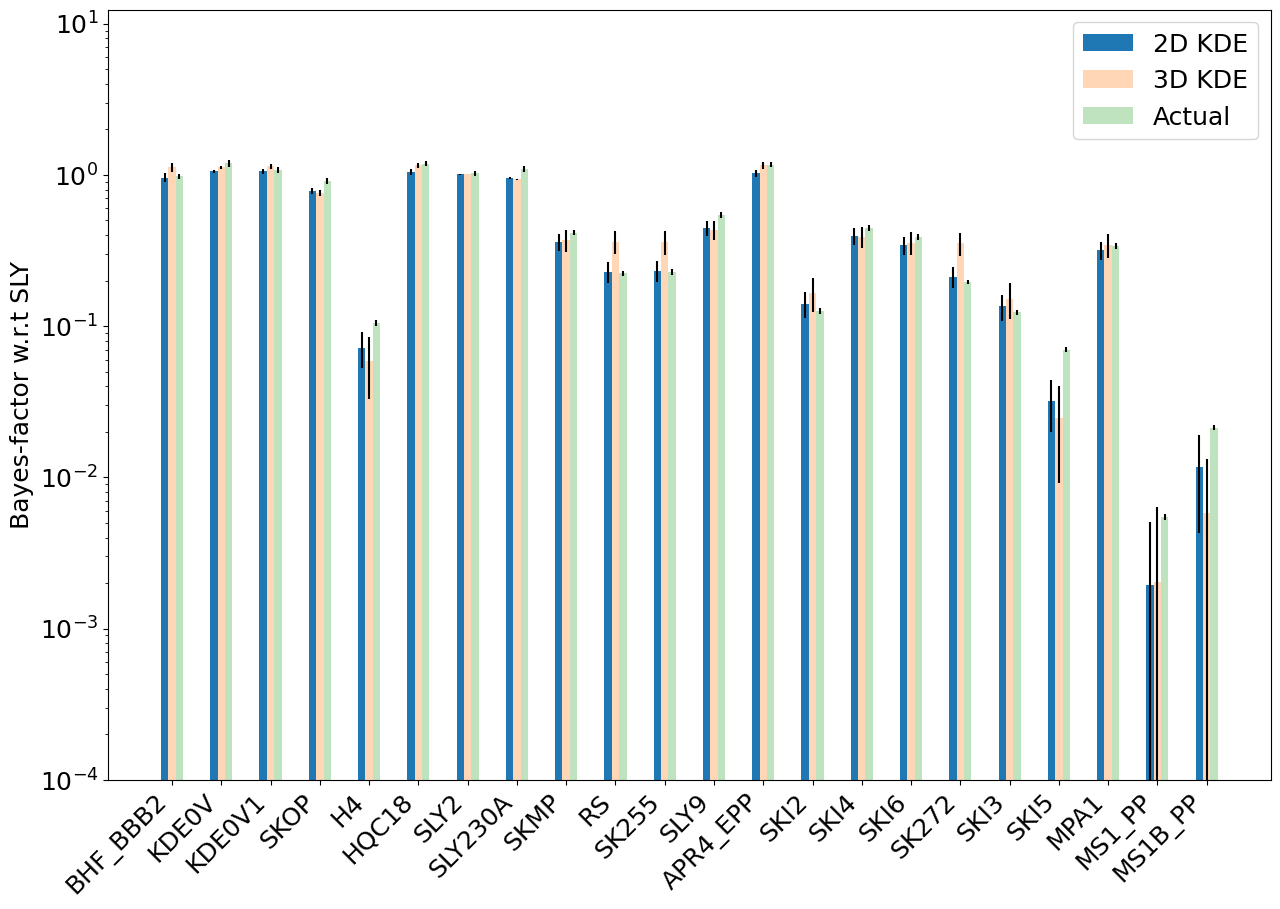
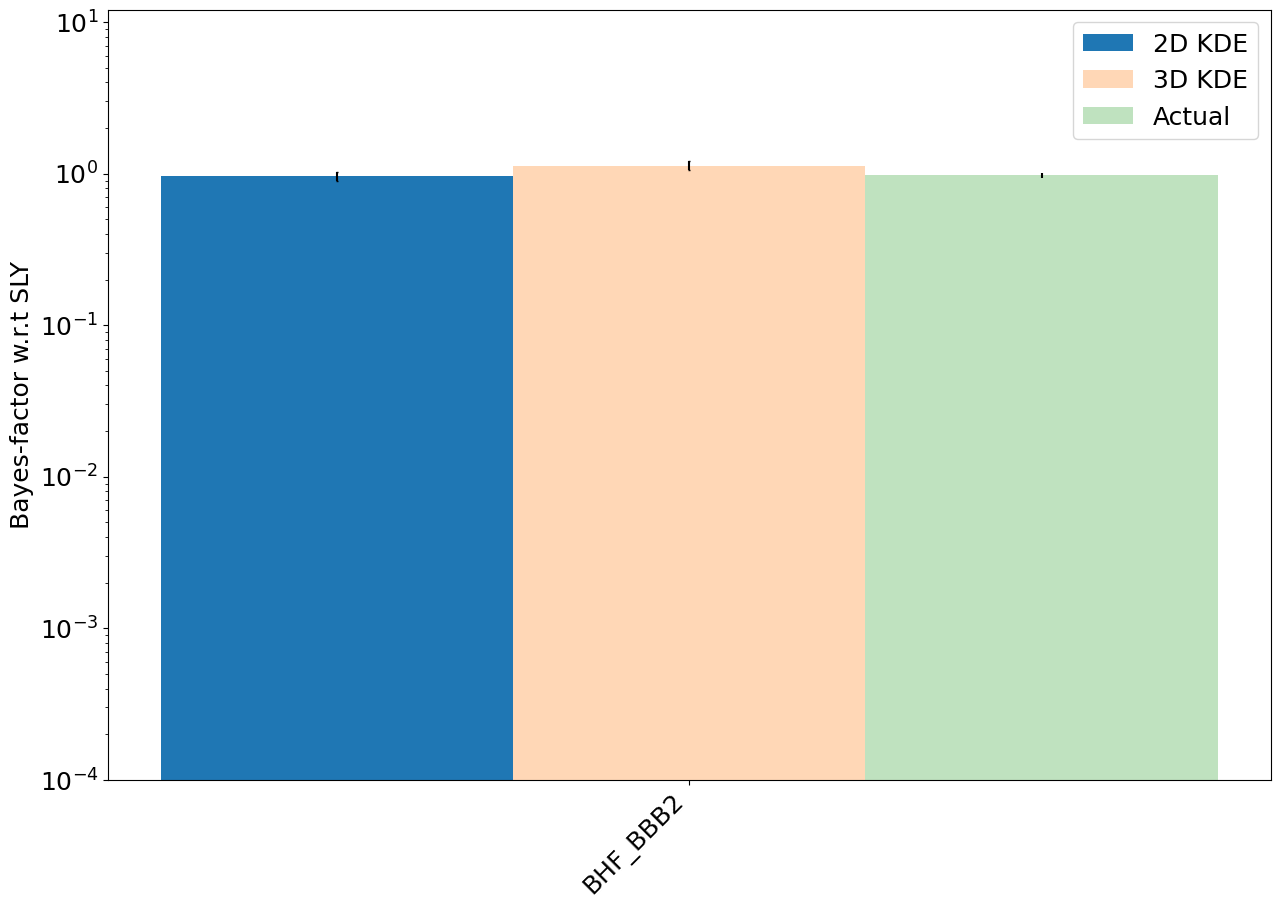
Testing refined plots of 2D 3D BFs. 7th time.

diff --git a/year3/PhenomTaylorCompare/GW170817BFs_GWXtreme2024Paper.py b/year3/PhenomTaylorCompare/GW170817BFs_GWXtreme2024Paper.py
@@ -21,7 +21,8 @@ def singleEventBFs():
     #colors = ["#1b9e77","#d95f02","#7570b3"] # Colors we initially used
     colors = ["#1f77b4", "#ffd7b6", "#bfe2bf"]
     methods = [modsel_uLTs, modsel_uLs]
-    eosList = ["BHF_BBB2","KDE0V","KDE0V1","SKOP","H4","HQC18","SLY2","SLY230A","SKMP","RS","SK255","SLY9","APR4_EPP","SKI2","SKI4","SKI6","SK272","SKI3","SKI5","MPA1","MS1_PP","MS1B_PP"]
+    #eosList = ["BHF_BBB2","KDE0V","KDE0V1","SKOP","H4","HQC18","SLY2","SLY230A","SKMP","RS","SK255","SLY9","APR4_EPP","SKI2","SKI4","SKI6","SK272","SKI3","SKI5","MPA1","MS1_PP","MS1B_PP"]
+    eosList = ["BHF_BBB2"]
     
     with open("/home/michael/projects/eos/GWXtreme_Tasks/year2/bilby_runs/simulations/outdir/nested_sampling_results.json","r") as f:
         nestSamp = json.load(f)
@@ -56,7 +57,7 @@ def singleEventBFs():
         #plt.bar(x_axis+spacing[index],methods_BFs[index],.15,yerr=methods_uncerts[index],label=labels[index],color=colors[index])
         plt.bar(x_axis+spacing[index],methods_BFs[index],.15,label=labels[index],color=colors[index])
 
-        plt.errorbar(x_axis+spacing[index],methods_BFs[index],yerr=methods_uncerts[index],ls="none",ecolor="black")
+        plt.errorbar(x_axis+spacing[index],methods_BFs[index],yerr=methods_uncerts[index],ls="none",ecolor="black",capsize=1.0)
     
     plt.bar(x_axis+spacing[2],nest_BFs,.15,yerr=nest_stds,label=labels[2],color=colors[2])
 
